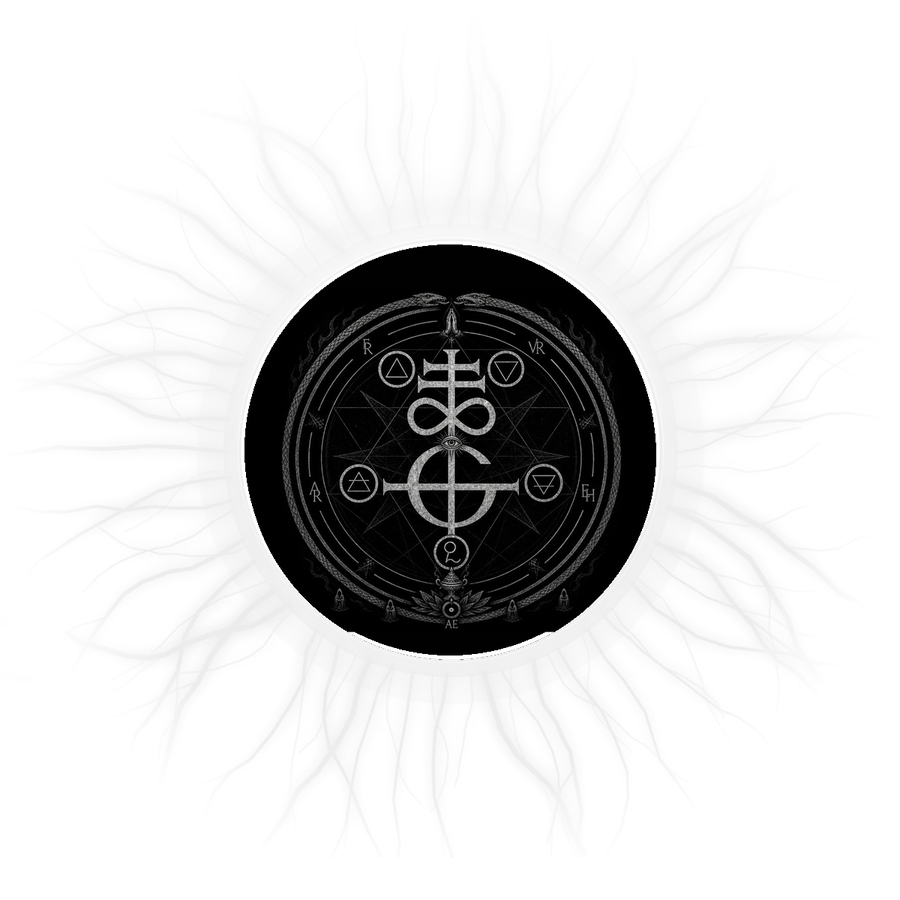
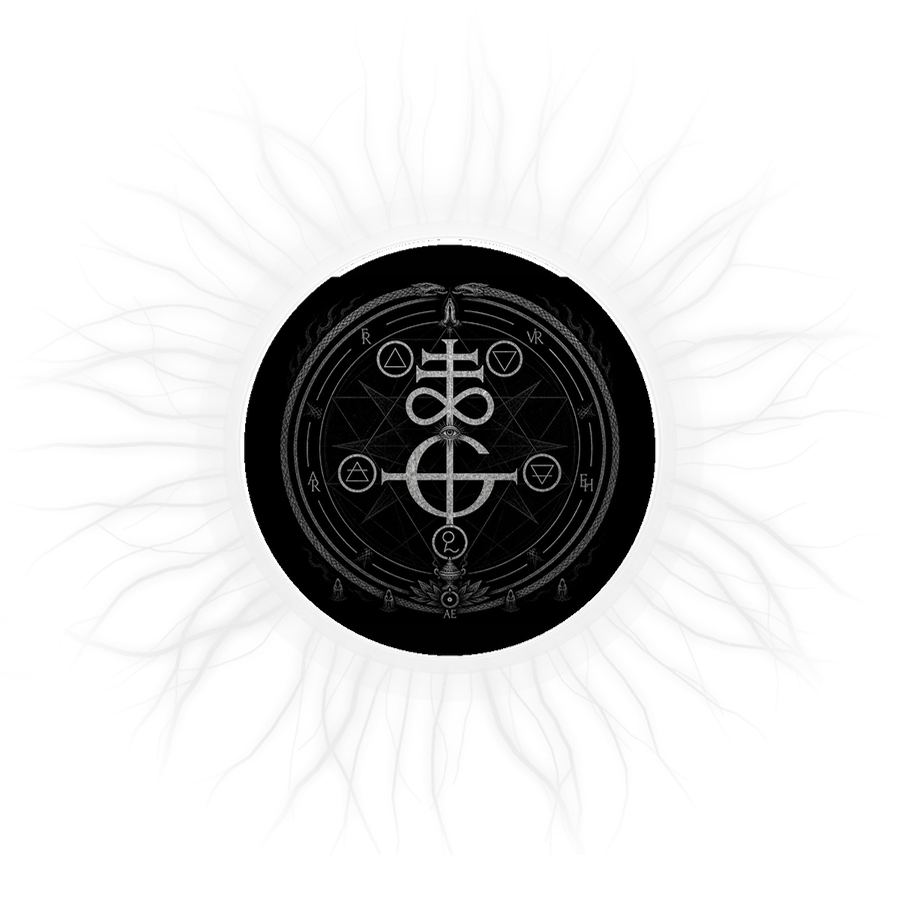
Center the seal precisely in the pupil (intro and dial)
Claude-Session: https://claude.ai/code/session_015Vm9ybeHmHyRfSMzUqD61S

Changed region(s): [[0.28, 0.3111, 0.7156, 0.7156]]

diff --git a/css/cinematic-intro.css b/css/cinematic-intro.css
@@ -190,9 +190,10 @@ html.is-cine .sound-toggle {
   z-index: 2;
   width: calc(var(--emblem-field) * var(--emblem-seal-ratio) + 0.4cm);
   height: calc(var(--emblem-field) * var(--emblem-seal-ratio) + 0.4cm);
+  /* the seal artwork sits 1.32% low inside its own image: compensate so it is truly centred in the pupil */
   transform: translate(
-    calc(-50% + var(--emblem-seal-nudge-x)),
-    calc(-50% + var(--emblem-seal-nudge-y))
+    calc(-50% + var(--emblem-seal-nudge-x) - 0.05%),
+    calc(-50% + var(--emblem-seal-nudge-y) - 1.32%)
   );
   object-fit: contain;
   object-position: center center;
